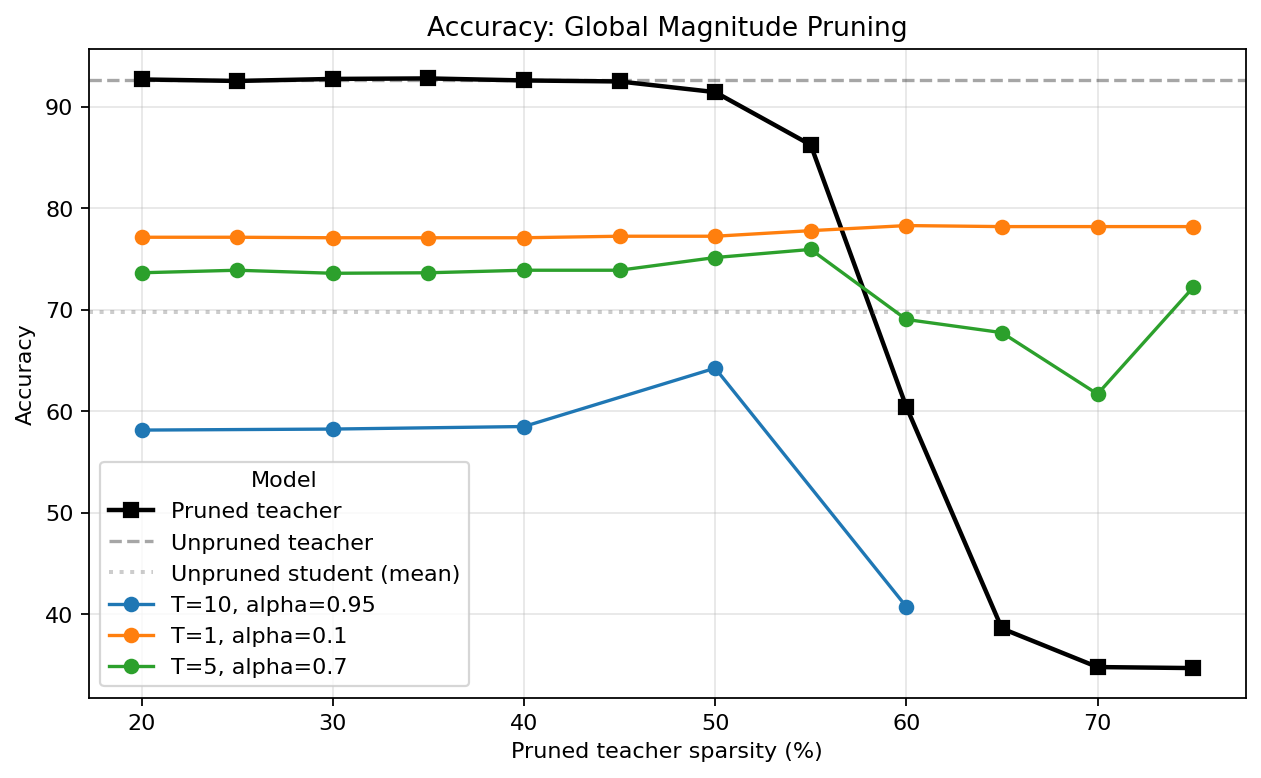
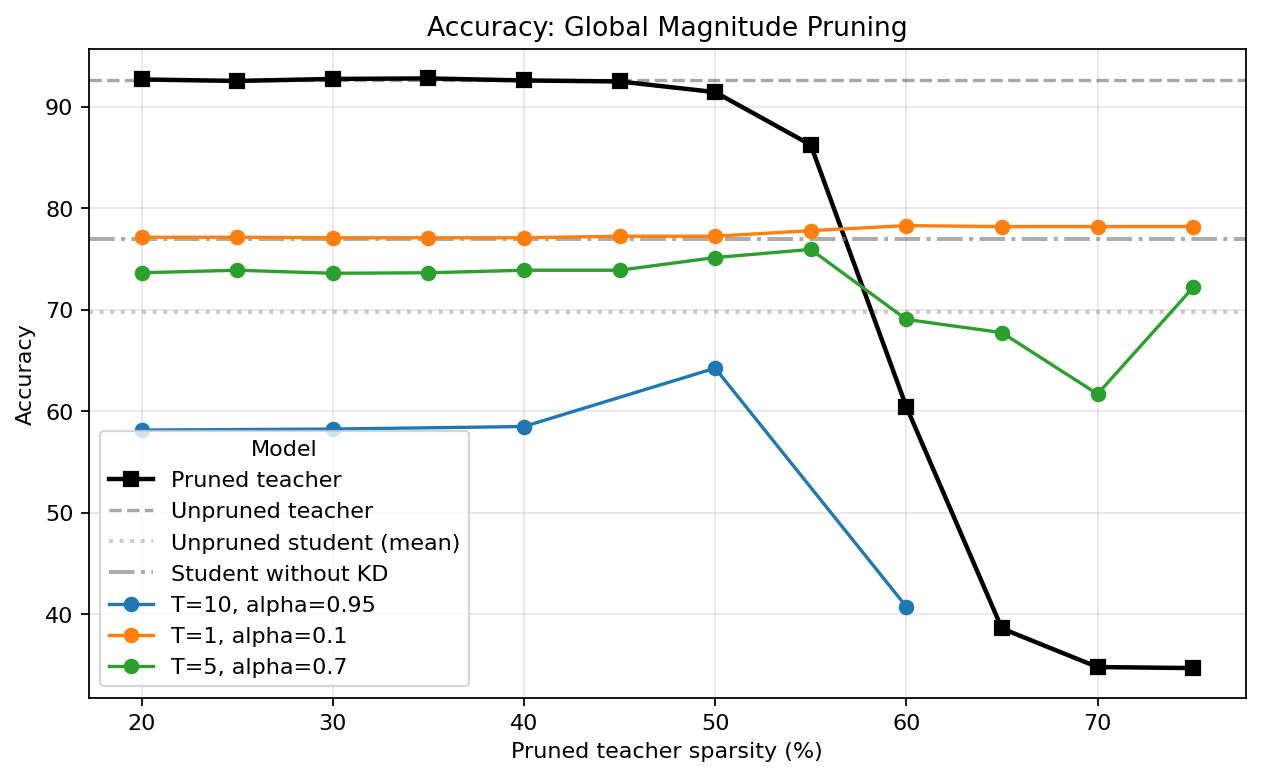
Student without KD added to plot

Changed region(s): [[0.0928, 0.5553, 0.3711, 0.7712]]

diff --git a/plotting_multiple.py b/plotting_multiple.py
@@ -15,6 +15,7 @@ METHODS = {
     "global_mag": "Global Magnitude",
 }
 METRICS = (("Accuracy", "Accuracy"), ("F1Macro", "Macro F1"))
+STUDENT_WITHOUT_KD = {"Accuracy": 77, "Macro F1": 0.54}
 FILENAME_PATTERN = re.compile(r"evaluation_results_T(?P<T>[^_]+)_alpha(?P<alpha>[^.]+)\.csv$")
 
 
@@ -138,6 +139,11 @@ def plot_multiple(csv_files=None, output_dir=None):
                 unpruned["Unpruned student"][metric_name], color="gray",
                 linestyle=":", linewidth=1.8, alpha=0.4,
                 label="Unpruned student (mean)",
+            )
+            ax.axhline(
+                STUDENT_WITHOUT_KD[metric_name], color="gray",
+                linestyle="-.", linewidth=1.8, alpha=0.65,
+                label="Student without KD",
             )
             for label, run_data in runs:
                 student_map = run_data.get((method, label), {})
